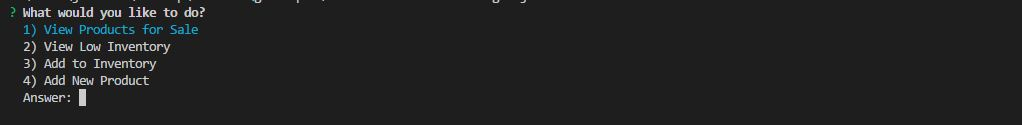
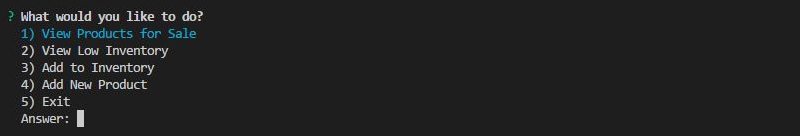
screenshots

diff --git a/bamazonManager.js b/bamazonManager.js
@@ -10,7 +10,7 @@ var connection = mysql.createConnection({
   user: "root",
 
   // Your password
-  password: "----",
+  password: "-------",
   database: "bamazon_DB"
 });
 
@@ -21,6 +21,7 @@ connection.connect(function (err) {
 });
 
 function whatToDo() {
+  console.log("\n") //add space for easier reading
   inquirer
     .prompt({
       name: "action",
@@ -81,6 +82,25 @@ function showLowInventory() {
     console.table(res);
     whatToDo();
   })
+}
+
+function exitManager() {
+  inquirer.prompt([
+    {
+      type: "confirm",
+      name: "wantToExit",
+      message: "Are you sure you want to exit?"
+    }])
+    .then(function (response) {
+      if (response.wantToExit) {
+        console.log("\n*******");
+        console.log("Goodbye!")
+        console.log("********");
+      } else {
+        whatToDo();
+      }
+    });
+
 }
 
 function addInventory() {
@@ -149,24 +169,5 @@ function addInventory() {
             })
         });
     });
-
-  function exitManager() {
-    inquirer.prompt([
-      {
-        type: "confirm",
-        name: "wantToExit",
-        message: "Are you sure you want to exit?"
-      }])
-      .then(function (response) {
-        if (response.keepShopping) {
-          console.log("\n*******");
-          console.log("Goodbye!")
-          console.log("********");
-        } else {
-          whatToDo();
-        }
-      });
-
-  }
 }
 
